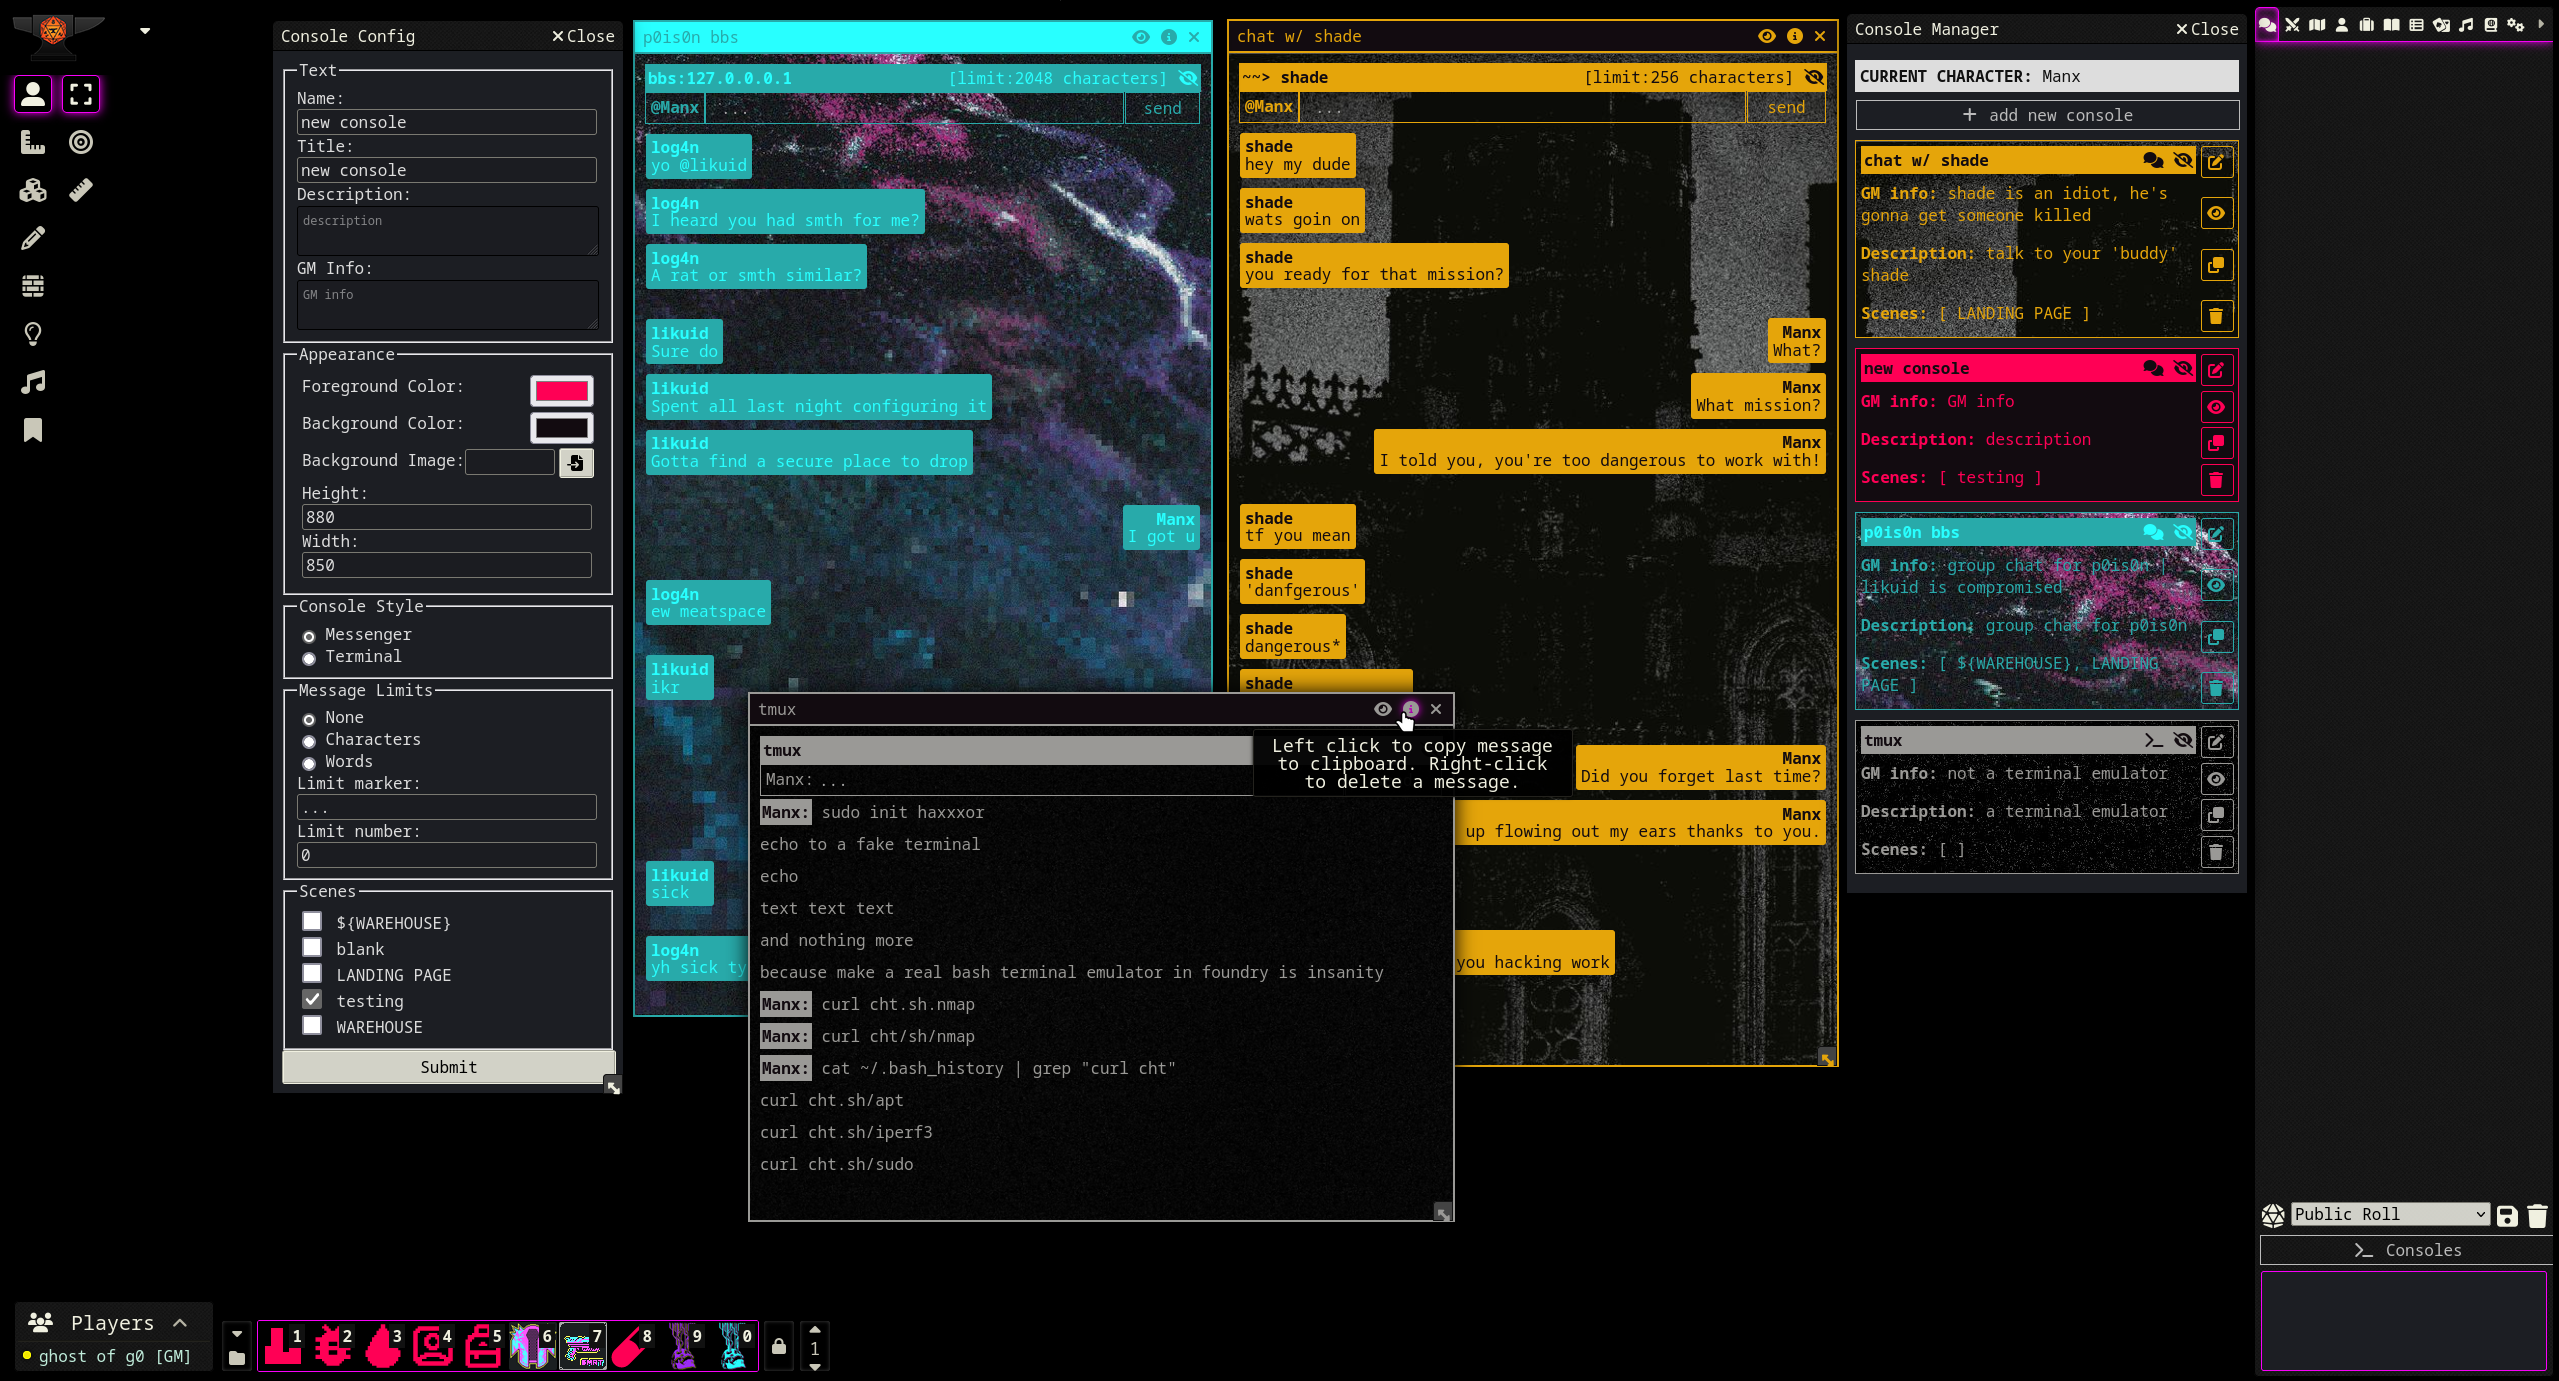
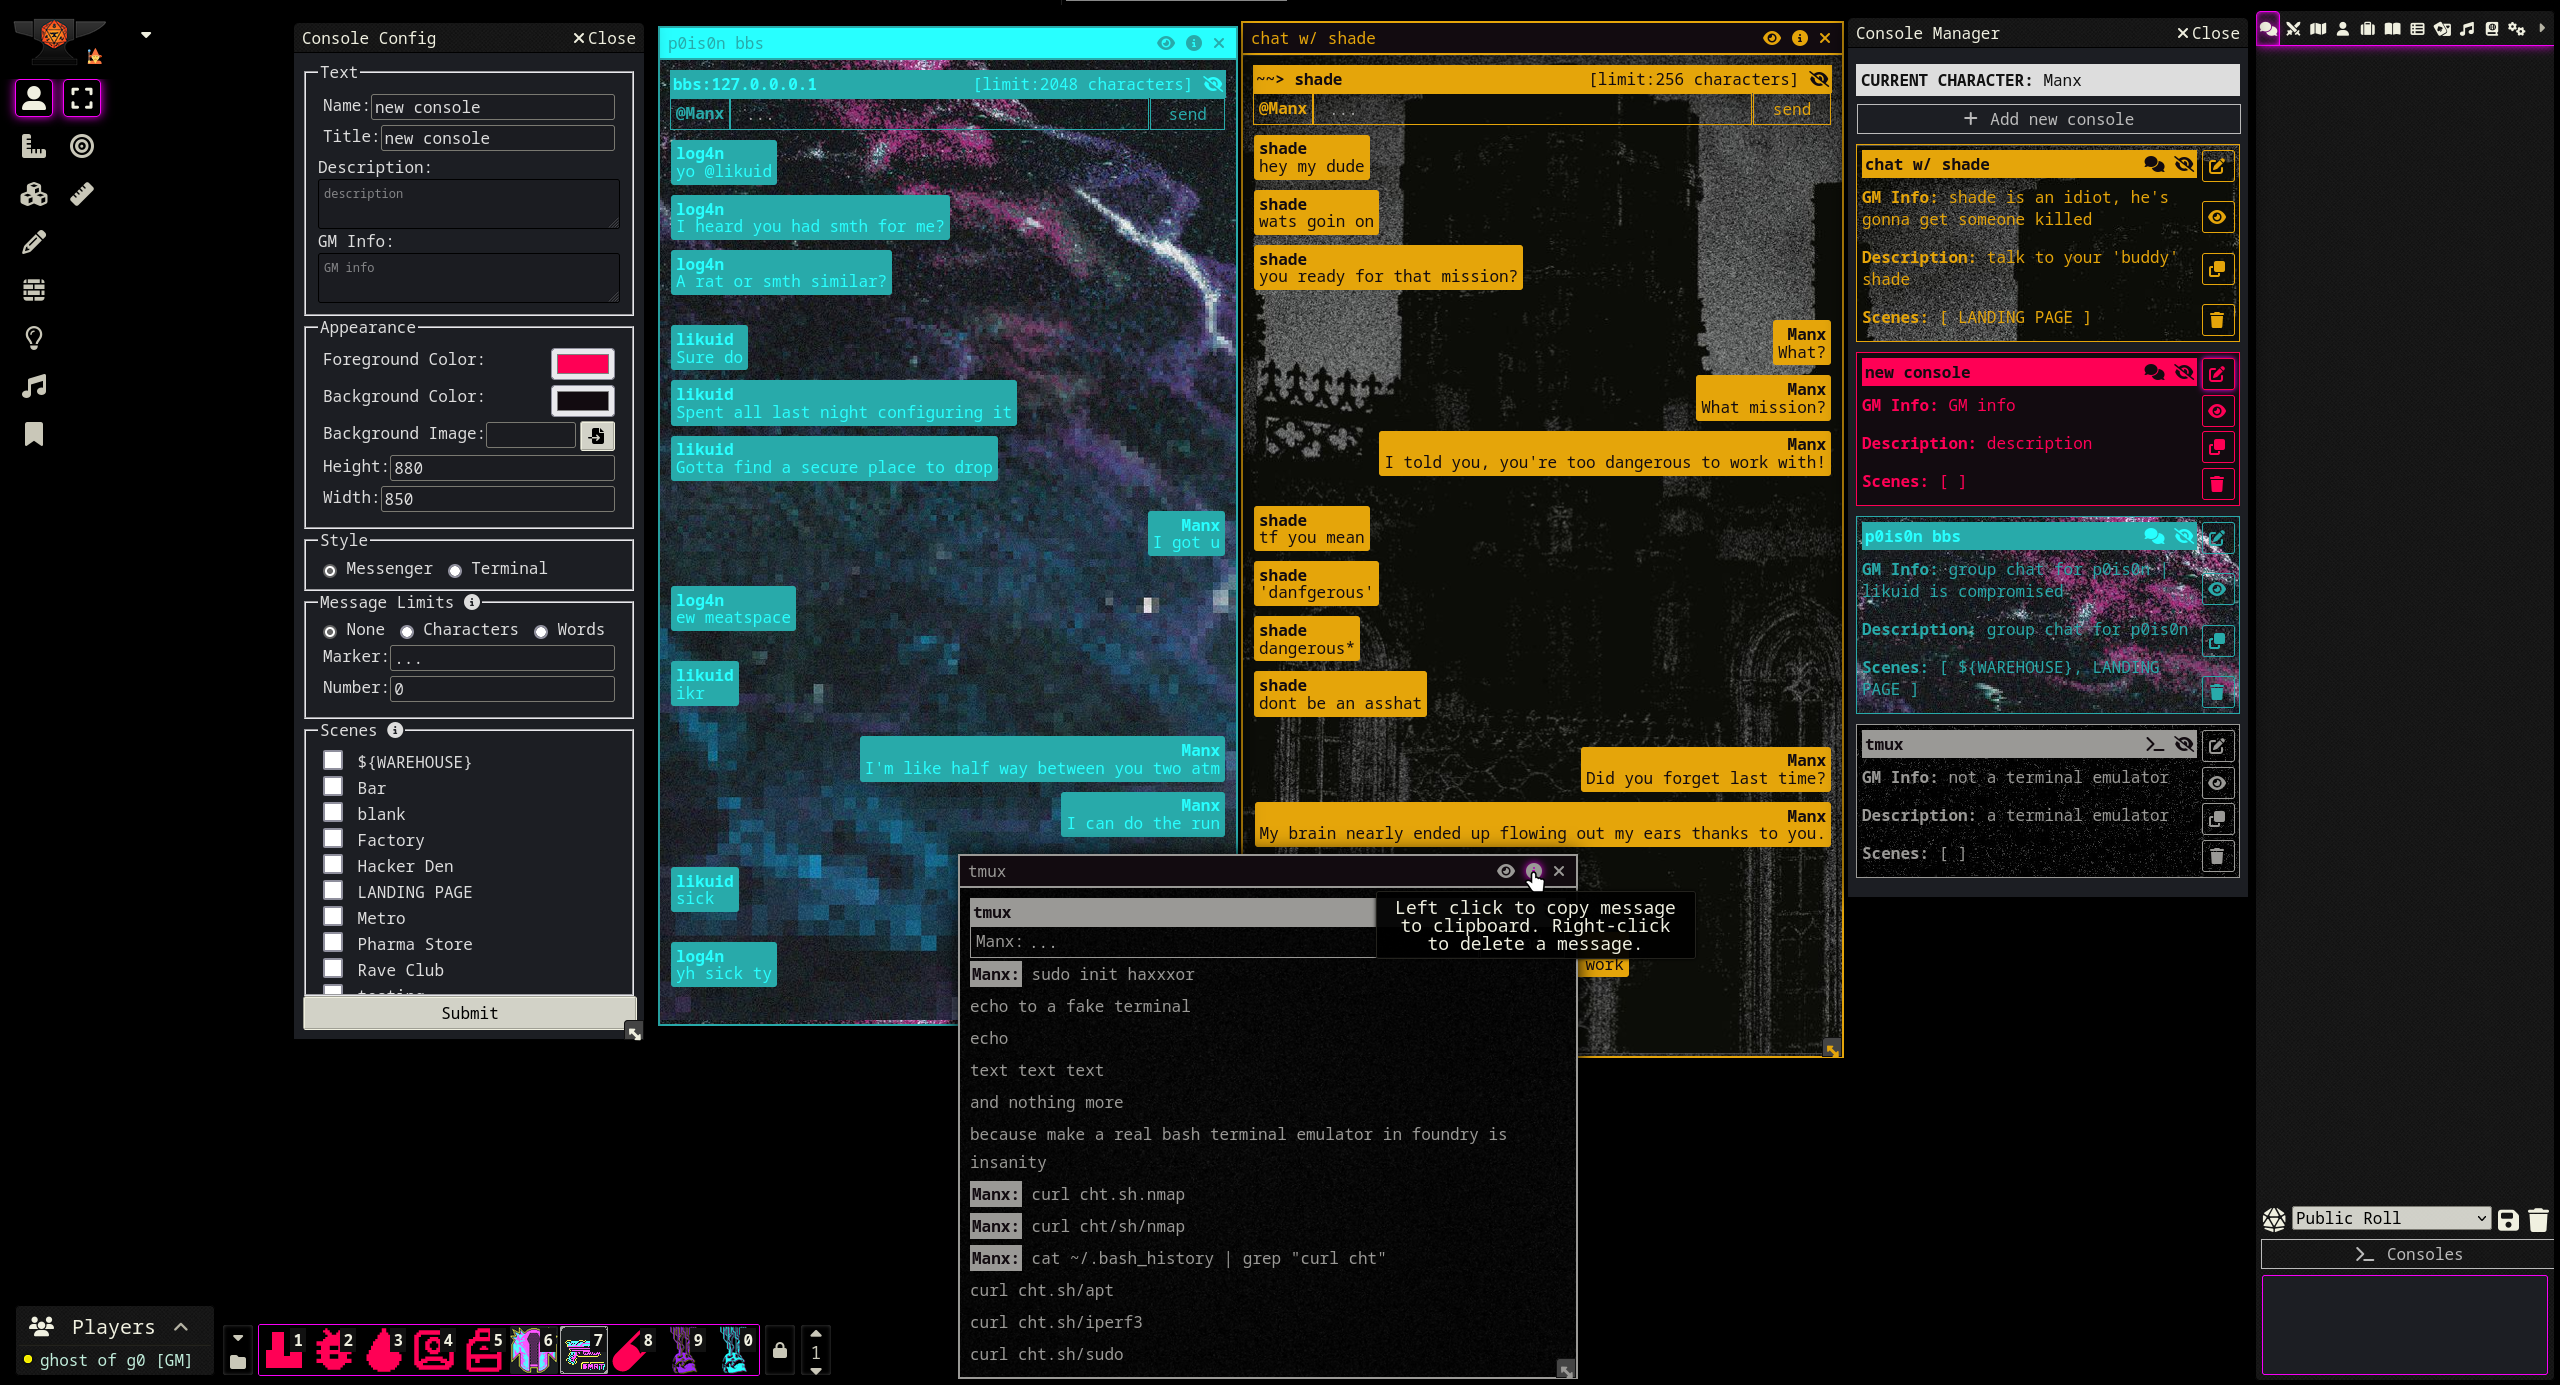
styling changes to config menu -> scenes section limited in max-height | removed hard-written text in templates to allow for localisation

diff --git a/classes/consoleApp.js b/classes/consoleApp.js
@@ -45,14 +45,14 @@ export default class ConsoleApp extends FormApplication {
                 class: "info",
                 icon: "fas fa-circle-info",
                 label: "",
-                tooltip: game.i18n.localize("CONSOLE.app-info")
+                tooltip: game.i18n.localize("CONSOLE.console.app-info")
             },
             {
                 class: "close",
                 icon: "fas fa-times",
                 label: "",
                 onclick: () => this.close(),
-                tooltip: game.i18n.localize("CONSOLE.close")
+                tooltip: game.i18n.localize("CONSOLE.console.close")
             }
         ]
         if (game.user.isGM) {
@@ -61,7 +61,7 @@ export default class ConsoleApp extends FormApplication {
                 icon: "fas fa-eye",
                 label: "",
                 onclick: () => this.shareApp(),
-                tooltip: game.i18n.localize("CONSOLE.show-players")
+                tooltip: game.i18n.localize("CONSOLE.console.show-players")
             })
         }
         return buttons

diff --git a/console.js b/console.js
@@ -35,8 +35,9 @@ export default class Console {
 
 // add button to chat
 Hooks.on('renderSidebarTab', (chatLog, html) => {
+    const name = game.i18n.localize('CONSOLE.consoles')
     const tooltip = game.i18n.localize('CONSOLE.button-title')
-    const button = `<button id="console-manager-launcher" class="console-manage-button" data-tooltip="${tooltip}"><i class="fas fa-terminal"></i> Consoles</button>`
+    const button = `<button id="console-manager-launcher" class="console-manage-button" data-tooltip="${tooltip}"><i class="fas fa-terminal"></i> ${name}</button>`
     html.find('#chat-controls').after(button)
 
     html.on('click', '#console-manager-launcher', (event) => {

diff --git a/styles/console.css b/styles/console.css
@@ -2,6 +2,18 @@
     flex: auto;
 }
 
+.console-config-flex {
+    display: flex;
+    justify-content: space-between;
+    margin: 5px;
+}
+
+.console-config-scene-box {
+    max-height: 20vh;
+    overflow: hidden scroll;
+}
+
+
 .console-manage-button {
     background: none;
     border: 1px solid #bbb;
@@ -28,7 +40,6 @@
     padding: 5px 5px;
     max-width: 100%;
     overflow-wrap: break-word;
-    /* width: max-content; */
 }
 
 .console-message-interact {
